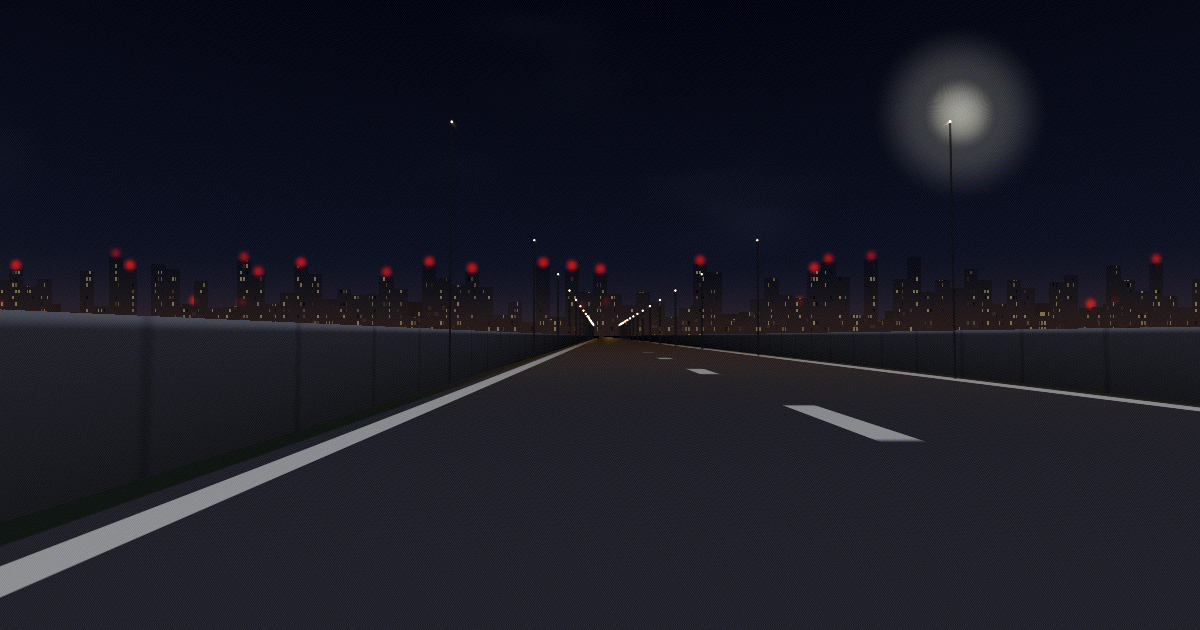
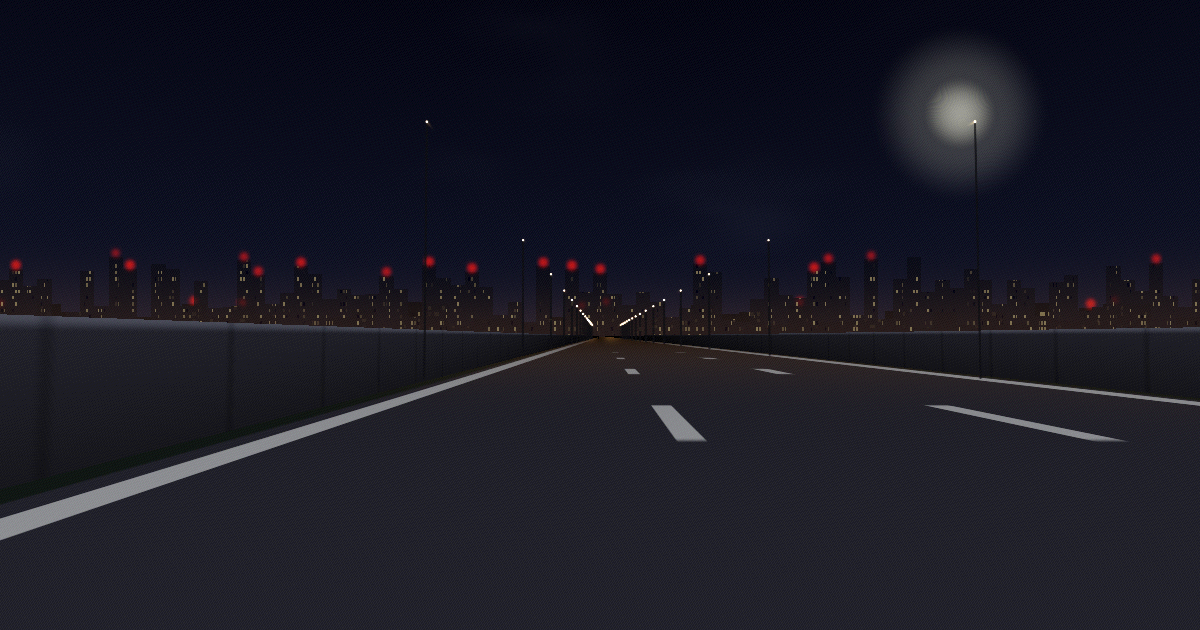
Multi-lane carriageway markings (expressway look)
Match the referenced multi-lane expressway: split the carriageway into
N lanes (default 3) with dashed interior dividers plus solid outer edge
lines, replacing the single centre line. New 'lanes' param (u_laneCount);
road widened slightly (roadHalfWidth 8->9). Regenerated OG image.

https://claude.ai/code/session_014aiygT373NYLjej9iisv7b

diff --git a/js/shaders.js b/js/shaders.js
@@ -79,9 +79,17 @@ void main(){
         float dw = max(AAW(zc), 0.02);
         float f = fract(zc);
         float dash = smoothstep(0.0, dw * 1.5, f) * (1.0 - smoothstep(u_dashDuty - dw * 1.5, u_dashDuty, f));
-        float center = (1.0 - smoothstep(0.035, 0.035 + aa, laneAbs)) * dash;
+        // 破線の車線分離（内側を laneCount 等分）＋ 実線の外側エッジ＝多車線の高速道路
+        float marks = 0.0;
+        for (int j = 1; j < 8; j++) {
+            if (j >= u_laneCount) break;
+            float pos = -u_laneEdge + float(j) * (2.0 * u_laneEdge / float(u_laneCount));
+            float dline = 1.0 - smoothstep(0.020, 0.020 + aa, abs(lane - pos));
+            marks = max(marks, dline * dash);
+        }
         float edge = 1.0 - smoothstep(0.025, 0.025 + aa, abs(laneAbs - u_laneEdge));
-        road = mix(road, u_laneCol, clamp(max(center, edge), 0.0, 1.0));
+        marks = max(marks, edge);
+        road = mix(road, u_laneCol, clamp(marks, 0.0, 1.0));
         road *= exp(-Zr * u_fogDensity);
 
         // 外の地面：道路より u_roadRaise だけ低い面に交差させる

diff --git a/js/config.js b/js/config.js
@@ -36,7 +36,8 @@ NH.PARAMS = [
     { key: "laneOffset",    def: -4.0,  uniform: "u_camX",          type: "float", ui: { min: -12, max: 12, step: 0.5 } },
 
     // --- 道路 ---
-    { key: "roadHalfWidth", def: 8.0,   uniform: "u_roadHalfWidth", type: "float", ui: { min: 2, max: 20, step: 0.5 } },
+    { key: "roadHalfWidth", def: 9.0,   uniform: "u_roadHalfWidth", type: "float", ui: { min: 2, max: 20, step: 0.5 } },
+    { key: "lanes",         def: 3,     uniform: "u_laneCount",     type: "int",   ui: { min: 1, max: 6, step: 1 } },   // 車線数（破線で等分）
     { key: "roadRaise",     def: 0.25,  uniform: "u_roadRaise",     type: "float", ui: { min: 0, max: 2, step: 0.05 } },  // 外の地面より道路を高く
     { key: "dashLength",    def: 14.0,  uniform: "u_dashLength",    type: "float", ui: { min: 1, max: 30, step: 0.5 } },
     { key: "dashDuty",      def: 0.32,  uniform: "u_dashDuty",      type: "float", ui: { min: 0.1, max: 0.9, step: 0.02 } }, // 塗り割合（小さいほど隙間が長い）
